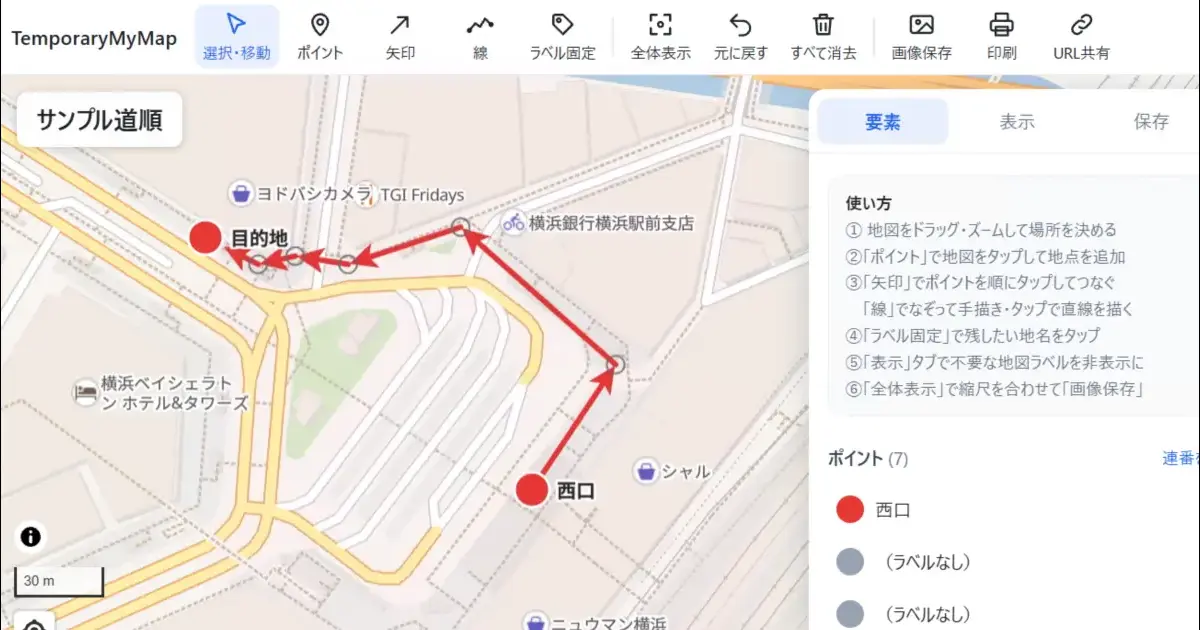
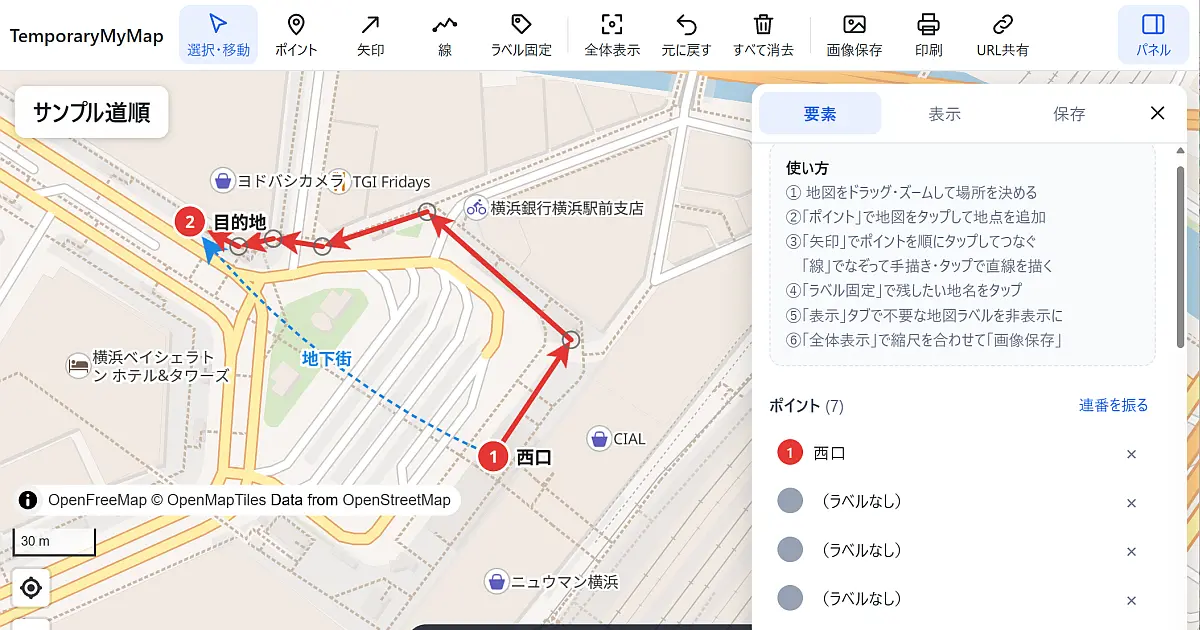
add default label name setting

diff --git a/js/app.js b/js/app.js
@@ -91,6 +91,7 @@ const SIMPLIFY_PX = 2.5;
 function newState() {
   return {
     title: '', style: DEFAULT_STYLE, lang: 'ja', fade: 0,
+    pointName: 'ポイント', // 新規ポイントの既定ラベル（末尾に連番を付ける。空ならラベルなし）
     labels: { place: true, poi: true, road: true, water: true, other: true },
     points: [], arrows: [], lines: [], pins: [], nextId: 1,
   };
@@ -233,7 +234,7 @@ function toDoc() {
     app: 'TemporaryMyMap', version: 1,
     title: state.title,
     view: { center: [r6(c.lng), r6(c.lat)], zoom: Math.round(z * 100) / 100 },
-    style: state.style, lang: state.lang, fade: state.fade,
+    style: state.style, lang: state.lang, fade: state.fade, pointName: state.pointName,
     labels: { ...state.labels },
     points: state.points.map(p => ({ ...p, lng: r6(p.lng), lat: r6(p.lat) })),
     arrows: state.arrows.map(a => ({ ...a })),
@@ -252,6 +253,7 @@ function stateFromDoc(doc) {
   if (STYLES[doc.style]) s.style = doc.style;
   if (doc.lang === 'local') s.lang = 'local';
   s.fade = clamp(Number(doc.fade) || 0, 0, 0.8);
+  if (typeof doc.pointName === 'string') s.pointName = doc.pointName.slice(0, 20);
   if (doc.labels) {
     for (const c of LABEL_CATS) if (typeof doc.labels[c.key] === 'boolean') s.labels[c.key] = doc.labels[c.key];
   }
@@ -1290,7 +1292,7 @@ function addPoint(lngLat) {
   // 番号付きで運用している場合は続き番号を振る
   const nums = state.points.map(p => parseInt(p.inner, 10)).filter(Number.isFinite);
   const inner = style.shape === 'c' && nums.length ? String(Math.max(...nums) + 1) : '';
-  const p = { ...style, id: newId(), lng: lngLat.lng, lat: lngLat.lat, label: `ポイント${state.points.length + 1}`, inner };
+  const p = { ...style, id: newId(), lng: lngLat.lng, lat: lngLat.lat, label: state.pointName ? `${state.pointName}${state.points.length + 1}` : '', inner };
   state.points.push(p);
   select({ type: 'point', id: p.id }, { focusLabel: true });
   scheduleSave();
@@ -1597,6 +1599,8 @@ function renderEditor(opts = {}) {
         <div>${rangeHtml('fs', '文字サイズ', 10, 32, 1, p.fs)}</div>
         <div><div class="field-label">太さ</div>${segHtml('bold', [['false', '標準'], ['true', '太字']], p.bold)}</div>
       </div>
+      <div class="field-label">新規ポイントのラベル（末尾に番号が付きます）</div>
+      <input type="text" data-g="pointName" maxlength="20" value="${esc(state.pointName)}" placeholder="空欄ならラベルなし">
       <div class="ed-actions">
         <button class="btn" data-act="arrow-from">ここから矢印</button>
         <button class="btn danger" data-act="delete">削除</button>
@@ -2210,6 +2214,12 @@ function bindUi() {
   });
   editor.addEventListener('input', (e) => {
     const t = e.target;
+    if (t.dataset.g === 'pointName') {
+      pushUndoCoalesced('pointName');
+      state.pointName = t.value;
+      scheduleSave();
+      return;
+    }
     if (!t.dataset.f || t.tagName === 'BUTTON') return;
     setField(t.dataset.f, t.type === 'checkbox' ? t.checked : t.value, false);
   });
